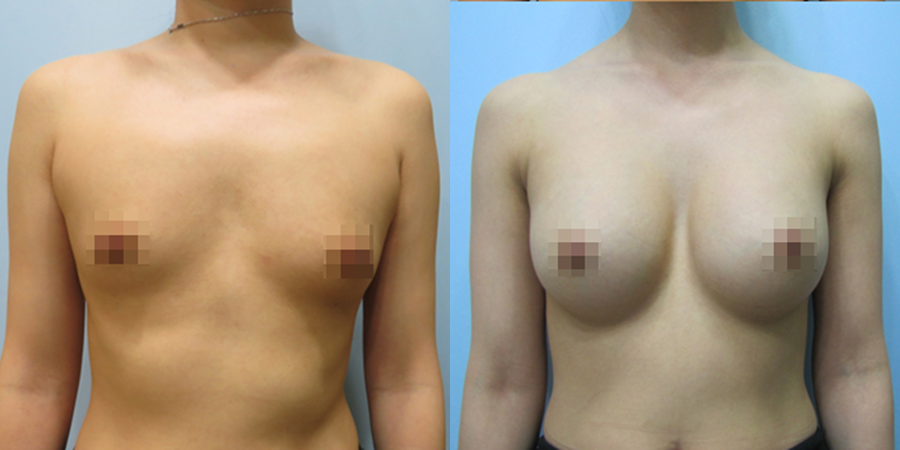
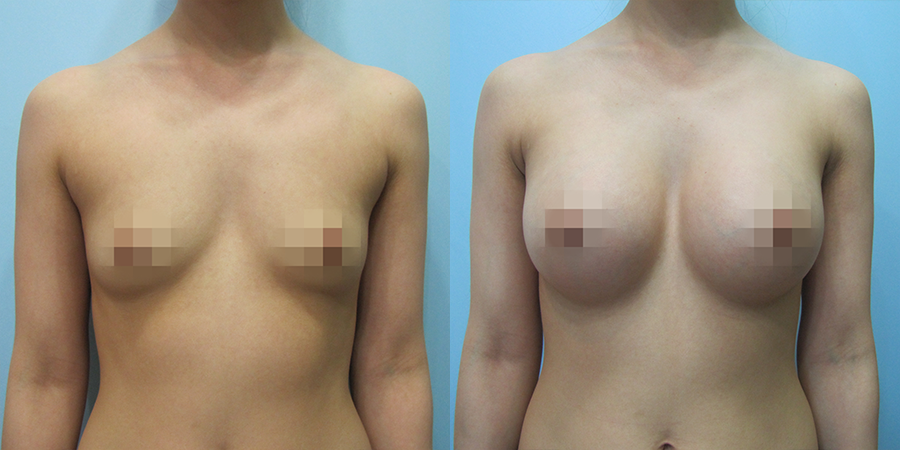
Update Case 13 gallery images

diff --git a/app/data/legacyBreastGallery.ts b/app/data/legacyBreastGallery.ts
@@ -64,8 +64,8 @@ export const legacyBreastGalleryItems: LegacyBreastGalleryItem[] = [
     surgeryType: "primary",
     title: "겨드랑이 절개하 첫수술\n멘토 보형물",
     description: "",
-    image: "/assets/before-after/primary/NEWS_000000000000013-preview.png",
-    modalImage: "/assets/before-after/primary/NEWS_000000000000013-modal.jpg",
+    image: "/gallery/13_surgery.png",
+    modalImage: "/gallery/13.png",
   },
   {
     id: 12,
